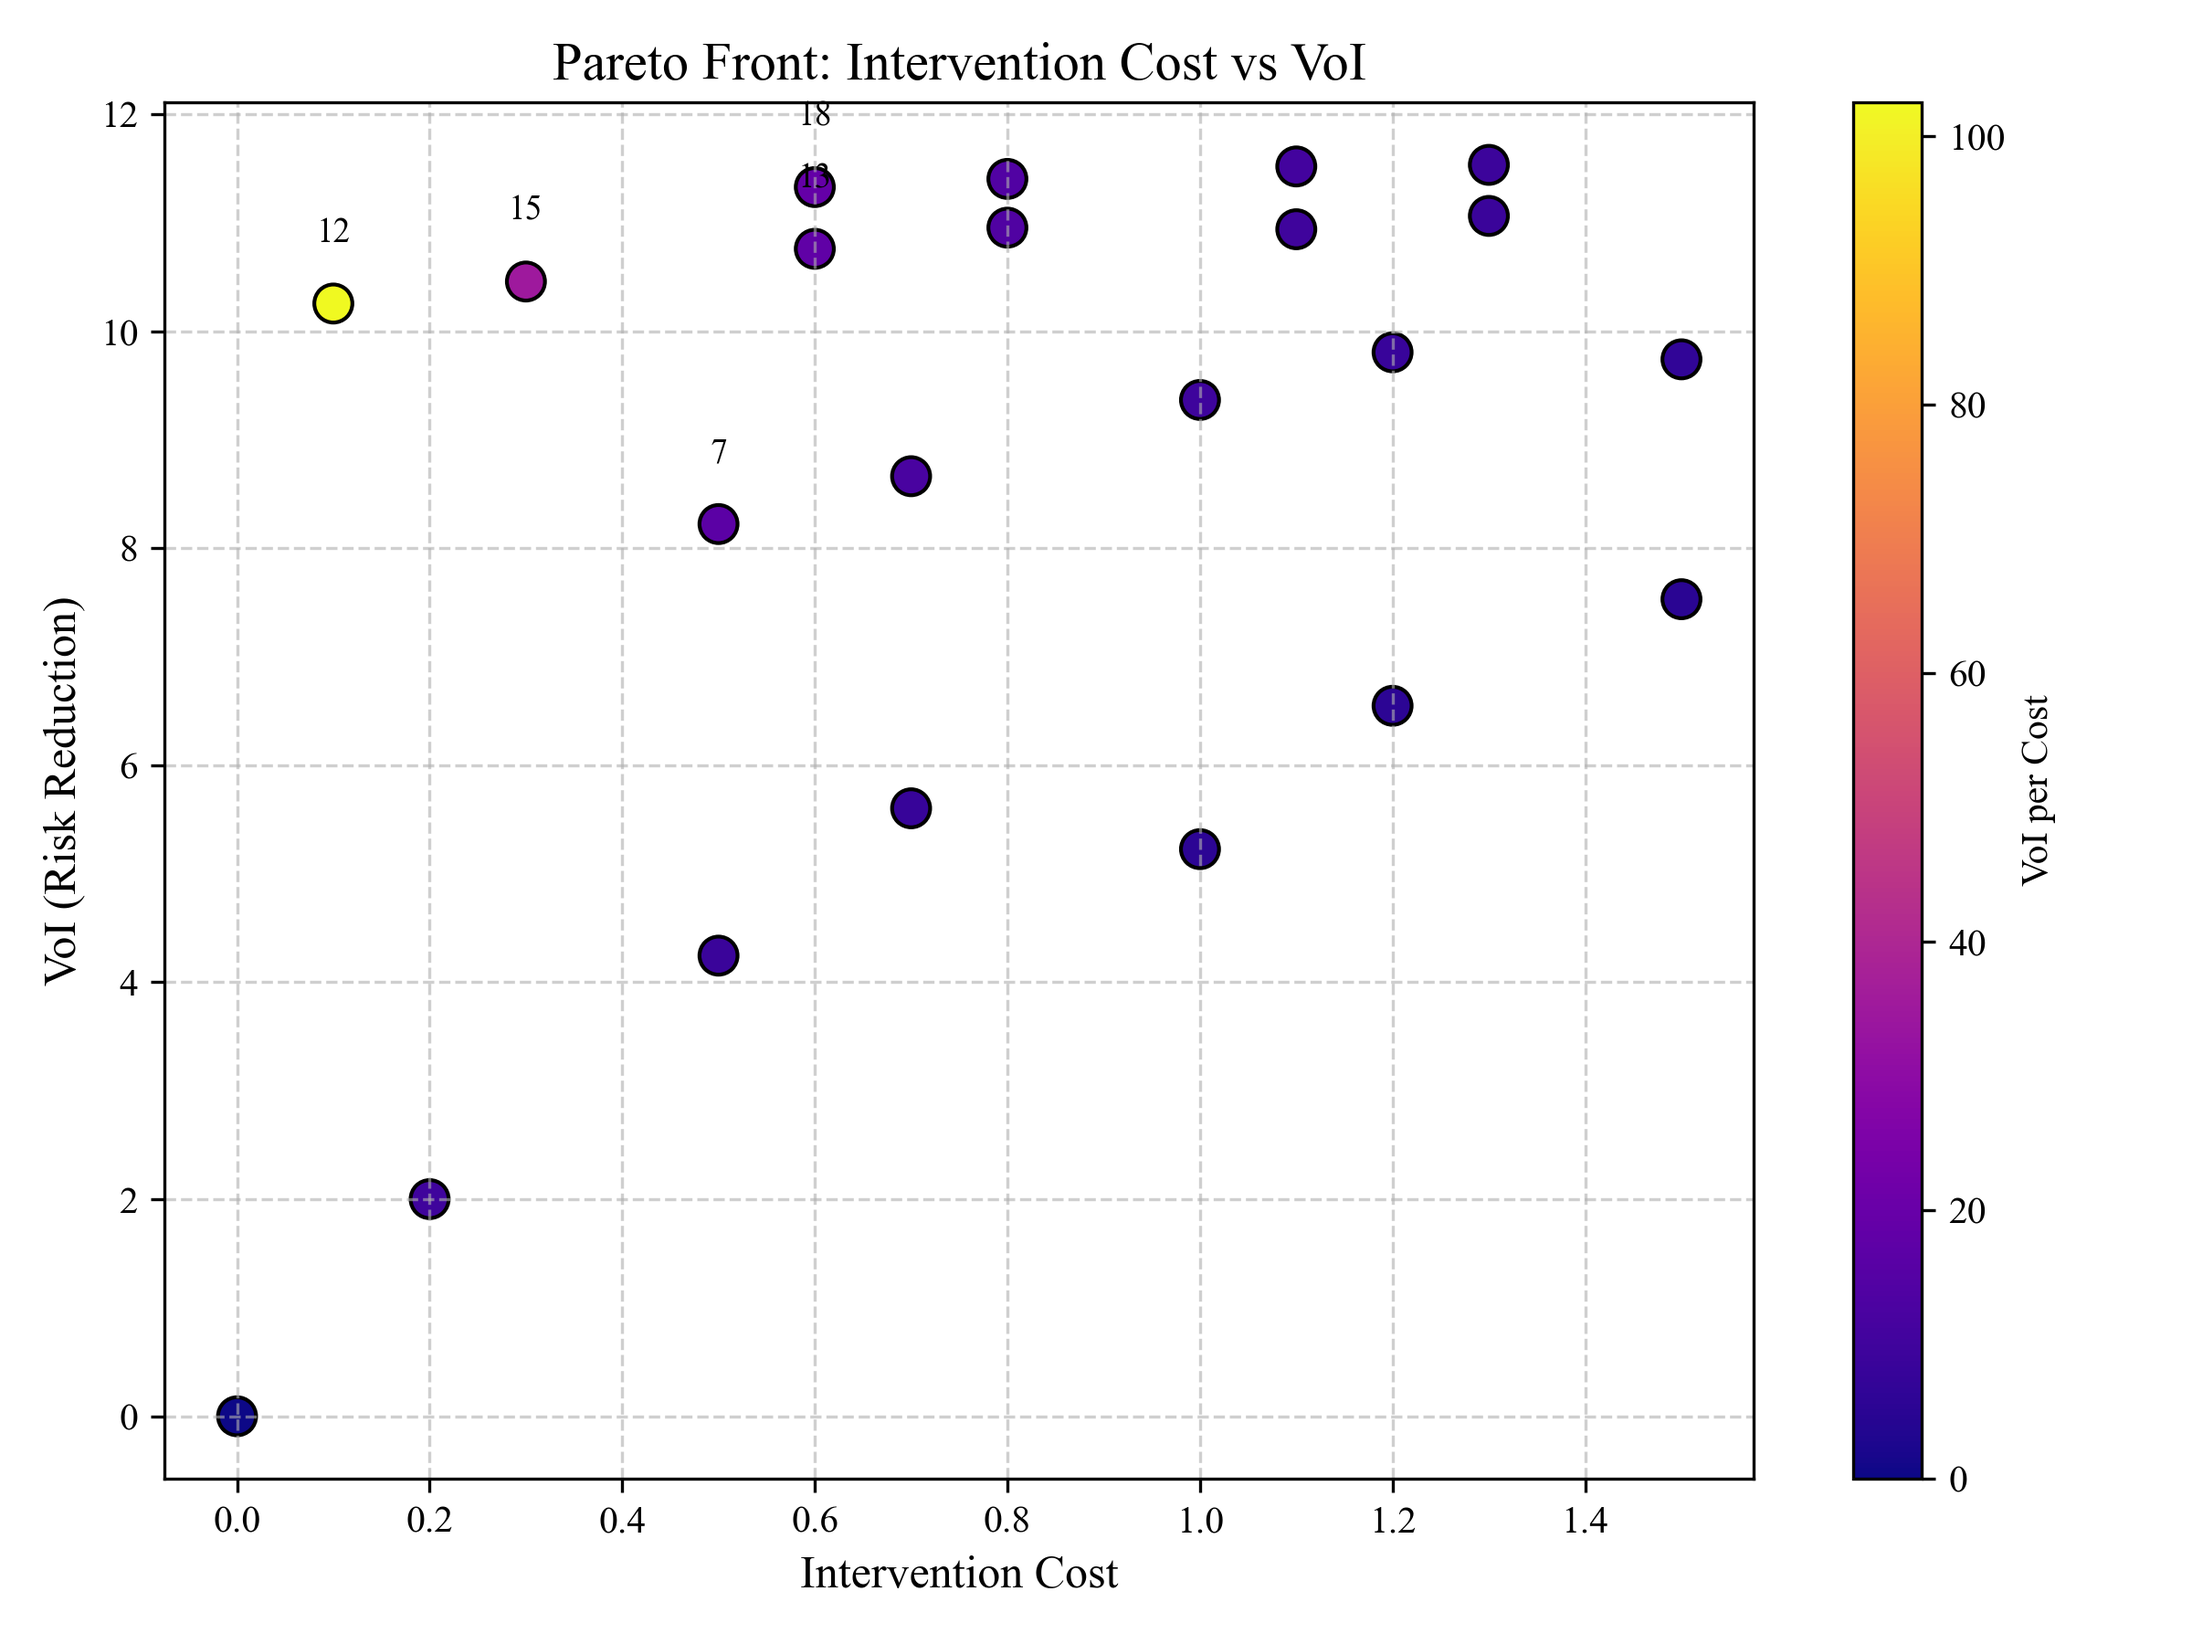
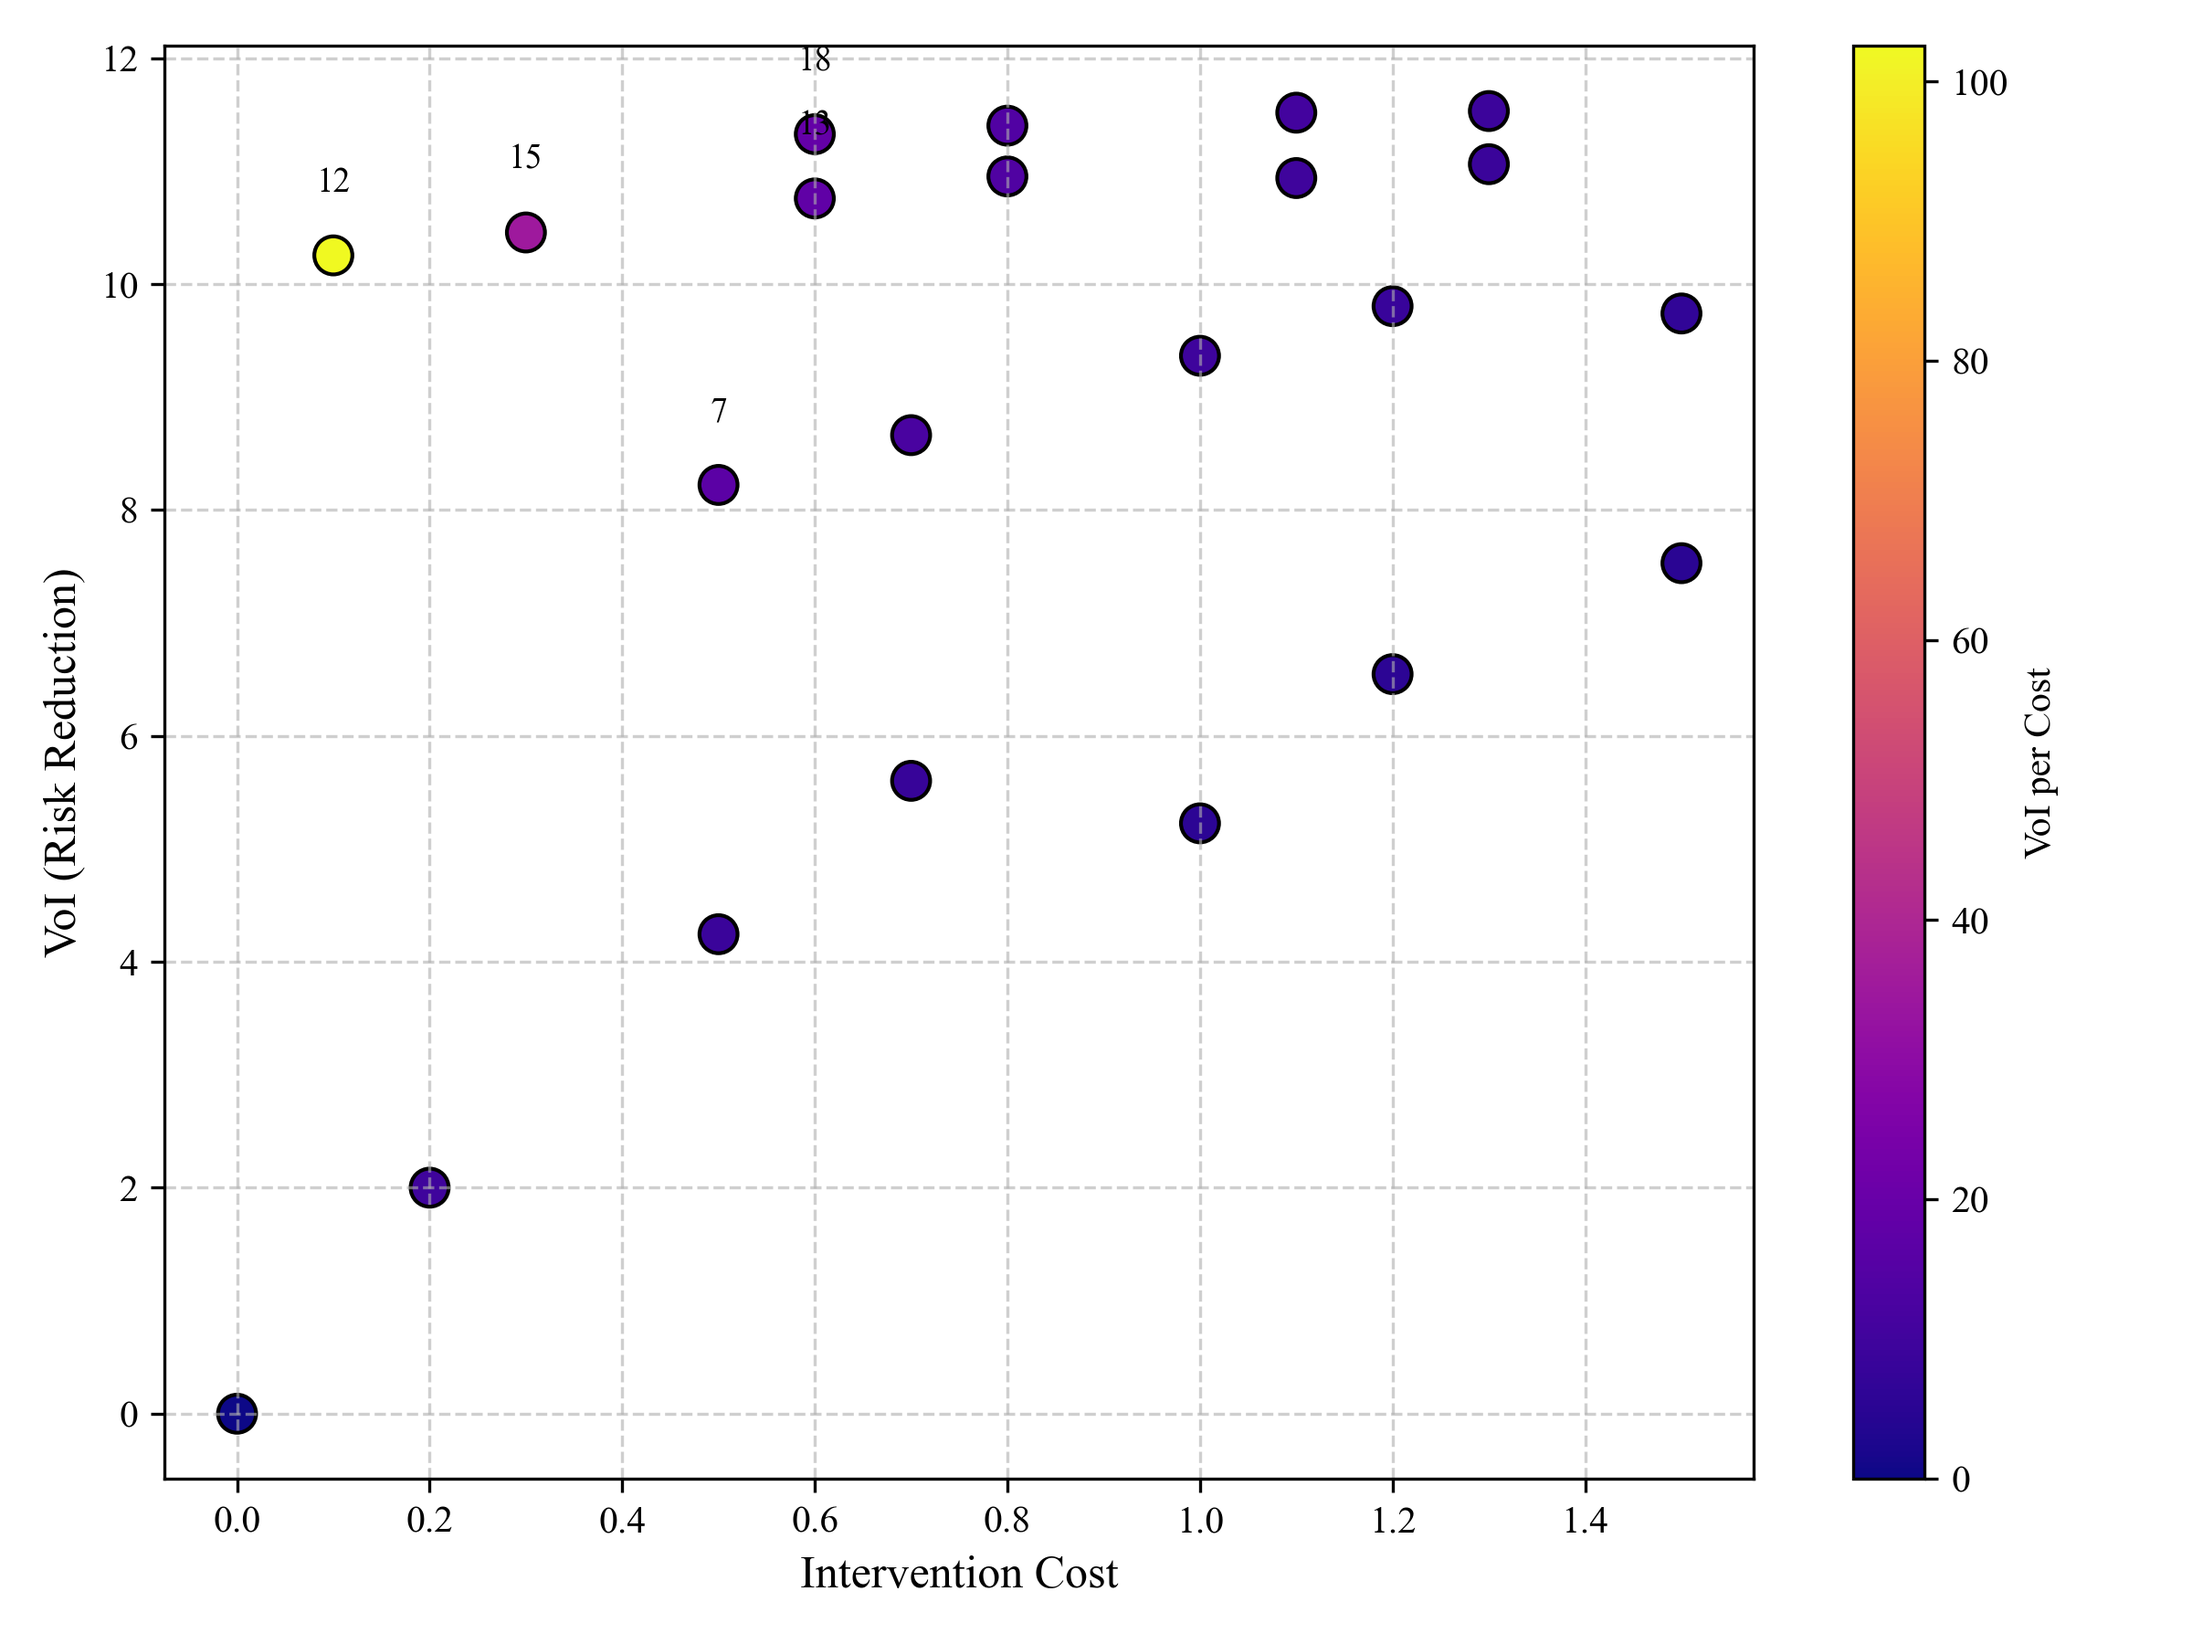
update readme:

diff --git a/4_analysis_all.py b/4_analysis_all.py
@@ -40,7 +40,7 @@ for _, row in top_policies.iterrows():
              str(int(row["policy_id"])), fontsize=9,
              ha='center', va='bottom', color='black')
 
-plt.title("Policy Comparison: Total Cost vs Intervention Cost", fontsize=14)
+# plt.title("Policy Comparison: Total Cost vs Intervention Cost", fontsize=14)
 plt.xlabel("Total Intervention Cost", fontsize=12)
 plt.ylabel("Average Total Cost (Simulation Outcome)", fontsize=12)
 plt.grid(True, linestyle='--', alpha=0.6)
@@ -67,7 +67,7 @@ voi_matrix = pd.DataFrame([{
 
 plt.figure(figsize=(10, 6))
 sns.heatmap(voi_matrix, annot=True, fmt=".2f", cmap="YlGnBu", cbar_kws={"label": "VoI"})
-plt.title("VoI per State per Policy", fontsize=14)
+# plt.title("VoI per State per Policy", fontsize=14)
 plt.xlabel("Intervention State", fontsize=12)
 plt.ylabel("Policy ID", fontsize=12)
 plt.tight_layout()
@@ -93,7 +93,7 @@ for _, row in top_pareto.iterrows():
              str(int(row["policy_id"])), fontsize=9,
              ha='center', va='bottom', color='black')
 
-plt.title("Pareto Front: Intervention Cost vs VoI", fontsize=14)
+# plt.title("Pareto Front: Intervention Cost vs VoI", fontsize=14)
 plt.xlabel("Intervention Cost", fontsize=12)
 plt.ylabel("VoI (Risk Reduction)", fontsize=12)
 plt.grid(True, linestyle='--', alpha=0.6)

diff --git a/README.md b/README.md
@@ -1,142 +1,138 @@
 # MDP-INTERVENTION: TMI-Inspired Decision Flow Simulation
 
-This repository simulates how decision errors propagate in a high-risk system like a nuclear power plant, using the Three Mile Island (TMI) accident as a case study. It models the flow of human judgment as a Markov Decision Process (MDP) and quantifies the effect of interventions on system risk using Monte Carlo simulations.
+This repository simulates how judgment errors propagate in a high-risk system, using the Three Mile Island (TMI) accident as a case study. It models human decision-making as a Markov Decision Process (MDP), simulates intervention strategies, and quantifies their risk reduction using Value of Information (VoI).
 
 ---
 
-## 🔧 Project Structure
+## 📁 Project Structure
+
 ```
 MDP-INTERVENTION/
-├── data/                  # MDP model JSON and generated policy list
-│   ├── tmi_mdp.json       # MDP states, transitions, costs
-│   └── policy_list.json   # All policies and intervention costs
-├── results/               # Output of simulation runs
-│   ├── policy_XX.json     # Result of individual policy simulations
-│   ├── summary.csv        # Summary table with total cost and VoI
-│   ├── top5_policies.csv      # Cost-optimal policies
-│   ├── top_voi_per_cost.csv  # VoI-efficiency optimal policies
-│   └── summary_with_voi.csv  # Full policy summary with VoI fields
-├── src/                   # Core simulation source code
-│   ├── mdp.py             # MDP loader
-│   ├── utils.py           # Helpers for transition, policy, logging
-│   ├── config.py          # General constants (e.g. run count)
-│   └── generate_policies.py # Exhaustive policy generator by cost
-├── 1_generate_policies.py    # Run this to create full policy set
-├── 2_simulate_all.py         # Run this to simulate every policy
-├── 3_add_voi_to_metadata.py  # Annotate metadata with VoI
-├── 4_analysis_all.py         # Analyze policies and visualize results
-├── figures/                  # Saved plots (auto-generated)
-├── requirements.txt          # Python package requirements
+├── data/                        # MDP model and intervention policy data
+├── results/                     # Simulation outputs and analysis results
+├── src/                         # Core simulation code
+├── 1_generate_policies.py       # Policy generator
+├── 2_simulate_all.py            # Batch simulator
+├── 3_add_voi_to_metadata.py     # Annotates VoI
+├── 4_analysis_all.py            # Visualization and metrics
+├── figures/                     # Saved output plots
+├── requirements.txt
 └── README.md
 ```
 
 ---
 
 ## ▶ How to Run
+
 ### 1. Install dependencies
 ```bash
 pip install -r requirements.txt
 ```
 
-### 2. Generate policies
+### 2. Generate all intervention policies
 ```bash
 python 1_generate_policies.py
 ```
-- Produces `data/policy_list.json` with all possible intervention policies and their costs.
 
-### 3. Run simulations on all policies
+### 3. Simulate all policies
 ```bash
 python 2_simulate_all.py
 ```
-- Saves each result to `results/policy_XX.json`
-- Also saves summary statistics to `results/summary.csv`
 
-### 4. Add VoI to metadata
+### 4. Add VoI calculations
 ```bash
 python 3_add_voi_to_metadata.py
 ```
-- Calculates Value of Information (VoI) for each policy
-- Updates the metadata with VoI, VoI per cost, and intervention states
 
-### 5. Analyze results (VoI, Pareto, Heatmap)
+### 5. Analyze and visualize results
 ```bash
 python 4_analysis_all.py
 ```
-- Generates plots and saves them to `figures/`
-- Includes:
-  - 📈 Total cost vs intervention cost
-  - 🔥 VoI heatmap by state
-  - 💠 Pareto front for VoI/cost tradeoff
 
 ---
 
-## 🎯 Objective
-This framework helps answer:
-- Which operator states are most impactful to intervene?
-- How does total cost vary across intervention strategies?
-- What is the Value of Information (VoI) for each intervention?
-- What are cost-effective and risk-effective intervention policies?
+## 🧠 Model Assumptions
 
-It is designed for nuclear safety studies, accident response simulation, and human reliability modeling.
+- Judgment flow is predefined based on accident reports and domain expertise.
+- Cognitive propagation: earlier misjudgments can influence later decisions.
+- The system is fully observable (as in a standard MDP).
 
----
-
-## ⚙ MDP Model Design
-
-### 🔁 States and Meanings
-| State | Description |
-|-------|-------------|
-| S0 | Valve A left open, operator assumes it's closed |
-| S1 | Reactor auto-trip |
-| S2 | Ambiguous signals emerge; Valve B misread as closed |
-| S3 | Cooling water leaking, but operator believes excess water exists |
-| S4 | Auto-injection disabled; pump starts vibrating due to low level |
-| S5 | Full cooling failure → core damage (terminal) |
-
-### 🔄 Transition Probabilities
-Transitions reflect how likely the operator is to progress to the next state (i.e., next misjudgment) depending on whether intervention occurred.
-
-| From | To | P (no_intervention) | P (intervene) | Notes |
-|------|----|----------------------|---------------|-------|
-| S0 | S1 | 0.8 | 0.1 | Operator misses initial abnormal state (Valve A open) |
-| S1 | S2 | 0.9 | 0.3 | Auto-trip causes signal overload; intervention helps reassess |
-| S2 | S3 | 0.95 | 0.8 | Valve B stuck open physically; intervention has limited effect |
-| S3 | S4 | 0.9 | 0.5 | Water level misunderstood due to poor training; harder to fix |
-| S4 | S5 | 1.0 | 0.6 | Final critical error before meltdown; fast action can help |
-| S5 | S5 | 1.0 | 1.0 | Absorbing terminal state (core damage) |
-
-### 💸 Cost Structure
-Each state-action pair has a cost. Higher cost = higher system risk or difficulty of intervention.
-
-| State | Cost (no_intervention) | Cost (intervene) | Rationale |
-|-------|-------------------------|------------------|-----------|
-| S0 | 0.0 | 0.1 | Early misjudgment; easy to correct |
-| S1 | 0.0 | 0.5 | Requires more resources to verify and interpret signals |
-| S2 | 1.0 | 0.2 | Re-checking valve B is low-cost, but impact is limited |
-| S3 | 2.0 | 1.0 | Training mismatch; intervention is expensive but important |
-| S4 | 5.0 | 0.5 | Pump vibration is urgent; intervention is effective and cheap |
-| S5 | 20.0 | 15.0 | Catastrophic failure; intervention is possible but costly |
-
-> 📌 **Note**: Total cost = (intervention cost) + (simulated consequence cost)
-
-> 🔍 **Why later interventions cost more?**
-> - 🔁 Later states represent crisis moments where mistakes compound
-> - ⚙ Actions require more time, coordination, or system override
-> - 🧠 Human factors like stress and ambiguity make decision harder
-> - ⏱ Correcting deep errors comes with a higher price tag
+> ⚠ Future work will shift to POMDPs for modeling belief uncertainty and perceptual ambiguity.
 
 ---
 
-## 📈 Analysis Output
-Running `4_analysis_all.py` provides:
-- 🔹 **Cost-efficiency ranking**: which policies reduce risk with least intervention
-- 🔸 **VoI per state**: visualized as a heatmap
-- 💠 **Pareto frontier**: visualize tradeoff between cost and VoI
-- 📊 **Policy-wise intervention breakdown**: where each policy intervenes
+## ⚙ MDP Model Summary
 
-> 📁 Output saved to `figures/`
-> 📄 Top policies saved to CSVs: `summary_with_voi.csv`, `top5_policies.csv`, `top_voi_per_cost.csv`
+Each decision point is a state. An intervention can be applied or skipped.
+
+### MDP Elements:
+- **States**: S₀ to S₅ (representing operator judgments)
+- **Actions**: {`no_intervention`, `intervene`}
+- **Transitions**: probabilistic, conditioned on action
+- **Cost**: based on both intervention burden and system consequence
+- **Policy**: A mapping of each state to an action
 
 ---
 
-Contact: seongeunpark@cmu.edu
+## 🔄 Transition & Cost Table
+
+| State | Description | Intervene | Cost | P(Fail) | P(Success) | P(Stag.) |
+|-------|-------------|-----------|------|---------|------------|----------|
+| S0 | Valve A open; operator thinks closed | No | 0.0 | 0.63 | 0.27 | 0.10 |
+|     |                                               | Yes | 0.1 | 0.09 | 0.81 | 0.10 |
+| S1 | Reactor auto-trip                              | No | 0.0 | 0.70 | 0.20 | 0.10 |
+|     |                                               | Yes | 0.5 | 0.20 | 0.70 | 0.10 |
+| S2 | Valve B misjudged as closed                    | No | 1.0 | 0.765 | 0.135 | 0.10 |
+|     |                                               | Yes | 0.2 | 0.675 | 0.225 | 0.10 |
+| S3 | Coolant leak misunderstood                     | No | 2.0 | 0.81 | 0.09 | 0.10 |
+|     |                                               | Yes | 1.0 | 0.45 | 0.45 | 0.10 |
+| S4 | Pump vibration misjudged, disabled             | No | 5.0 | 0.85 | 0.05 | 0.10 |
+|     |                                               | Yes | 0.5 | 0.90 | 0.50 | 0.10 |
+| S5 | Cooling fails; core damage (terminal)          | No | 20.0 | 0.95 | 0.70 | 0.10 |
+|     |                                               | Yes | 15.0 | 1.00 | 0.00 | 0.00 |
+
+> Non-intervention has zero immediate cost, but hidden future risks.
+
+---
+
+## 📈 Simulation Methodology
+
+- 64 policies ($2^6$) simulated using Monte Carlo (10,000 runs each)
+- VoI = Risk reduction relative to baseline policy (no intervention)
+- VoI per Cost = VoI normalized by total intervention cost
+- Policies with cost ≤ 1.5 are prioritized for realism
+
+---
+
+## 🔍 Key Findings
+
+- Best risk reduction (77%) achieved by Policy #21 (moderate cost)
+- Highest efficiency by Policy #12 (VoI/Cost = 156.5) with only S0 intervention
+- Targeted early-stage interventions (S0--S2) are most effective
+
+---
+
+## 📊 Visualizations
+
+- **Risk vs Cost scatter**: darker = lower risk
+- **VoI heatmap**: highlights high-value intervention states
+- **Efficiency Pareto plot**: identifies cost-effective policies
+
+All saved to `/figures/` upon running `4_analysis_all.py`.
+
+---
+
+## 🚧 Limitations & Future Work
+
+- MDP assumes known operator state; VoI here reflects value of correction.
+- In reality, operators work under uncertainty.
+- Upcoming extension: **POMDP formulation** to model hidden states and belief dynamics.
+- VoI will then represent the benefit of resolving uncertainty, not just fixing known misjudgments.
+
+---
+
+## 📬 Contact
+
+**Seongeun Park**  
+📧 seongeup@andrew.cmu.edu  
+🔗 [GitHub Repository](https://github.com/separk-1/mdp-intervention)
